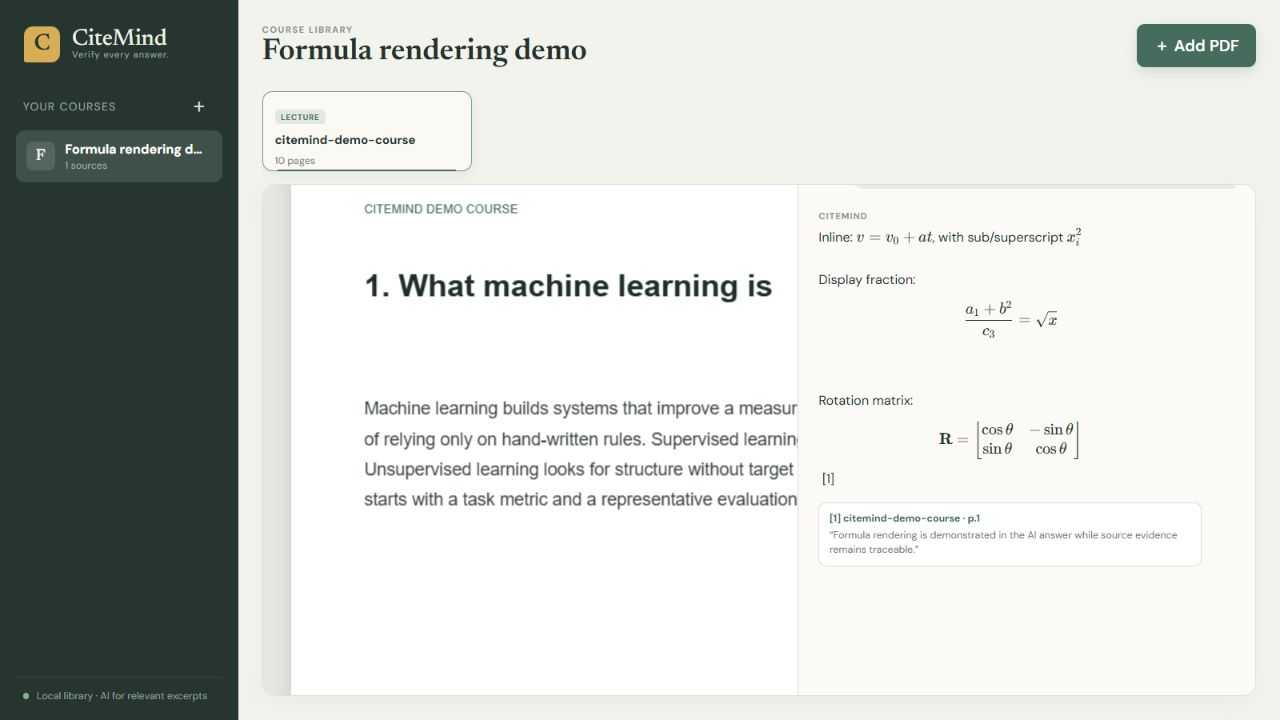
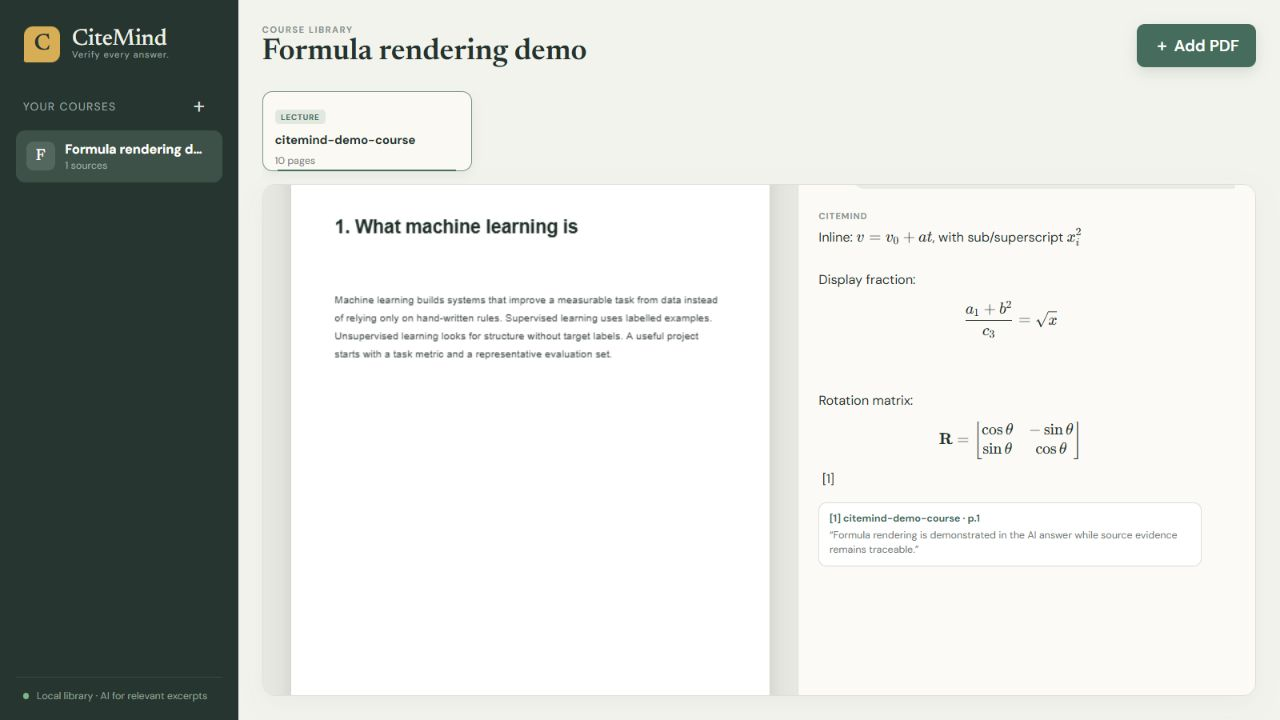
Fit PDF pages to viewer width

Changed region(s): [[0.25, 0.2444, 0.625, 0.9778], [0.25, 0.275, 0.4688, 0.3361]]

diff --git a/frontend/src/components/PdfViewer.tsx b/frontend/src/components/PdfViewer.tsx
@@ -14,10 +14,23 @@ type Props = {
 export function PdfViewer({ documentId, title, page, highlight, pageCount, onPageChange }: Props) {
   const canvasRef = useRef<HTMLCanvasElement>(null);
   const overlayRef = useRef<HTMLDivElement>(null);
+  const scrollRef = useRef<HTMLDivElement>(null);
+  const [availableWidth, setAvailableWidth] = useState(0);
   const [loading, setLoading] = useState(true);
   const [error, setError] = useState("");
 
   useEffect(() => {
+    const container = scrollRef.current;
+    if (!container) return;
+    const measure = () => setAvailableWidth(Math.max(container.clientWidth - 56, 1));
+    measure();
+    const observer = new ResizeObserver(measure);
+    observer.observe(container);
+    return () => observer.disconnect();
+  }, []);
+
+  useEffect(() => {
+    if (!availableWidth) return;
     let cancelled = false;
     setLoading(true);
     setError("");
@@ -25,7 +38,8 @@ export function PdfViewer({ documentId, title, page, highlight, pageCount, onPag
     const task = pdfjs.getDocument({ url: `/api/documents/${documentId}/file`, worker });
     task.promise.then(async (pdf) => {
       const pdfPage = await pdf.getPage(page);
-      const viewport = pdfPage.getViewport({ scale: 1.35 });
+      const natural = pdfPage.getViewport({ scale: 1 });
+      const viewport = pdfPage.getViewport({ scale: Math.min(1.35, availableWidth / natural.width) });
       const canvas = canvasRef.current;
       if (!canvas || cancelled) return;
       const context = canvas.getContext("2d");
@@ -69,7 +83,7 @@ export function PdfViewer({ documentId, title, page, highlight, pageCount, onPag
       cancelled = true;
       void task.destroy().finally(() => worker.destroy());
     };
-  }, [documentId, page, highlight]);
+  }, [documentId, page, highlight, availableWidth]);
 
   return (
     <section className="viewer-panel">
@@ -84,7 +98,7 @@ export function PdfViewer({ documentId, title, page, highlight, pageCount, onPag
           <button aria-label="Next page" disabled={page >= pageCount} onClick={() => onPageChange(page + 1)}>→</button>
         </nav>
       </header>
-      <div className="pdf-scroll">
+      <div className="pdf-scroll" ref={scrollRef}>
         {loading && <div className="viewer-status">Rendering page…</div>}
         {error && <div className="error-card">{error}</div>}
         <div className="pdf-page" hidden={!!error}>

diff --git a/backend/app/main.py b/backend/app/main.py
@@ -26,7 +26,7 @@ async def lifespan(_: FastAPI):
     yield
 
 
-app = FastAPI(title="CiteMind API", version="0.1.5", lifespan=lifespan)
+app = FastAPI(title="CiteMind API", version="0.1.6", lifespan=lifespan)
 app.add_middleware(
     CORSMiddleware,
     allow_origins=["http://localhost:5173", "http://127.0.0.1:5173"],

diff --git a/docs/VALIDATION.md b/docs/VALIDATION.md
@@ -29,6 +29,7 @@ Validated on 2026-08-13 with Windows 11, Python 3.12, Node.js 24, and a Chromium
 | Private document-scoped revision | Three real questions; every citation clicked | 3/3 useful answers; 6/6 direct page citations |
 | Chinese short-fragment highlighting | Real private citation page | Improved from zero to five highlights |
 | AI formula rendering | Production browser with six formulas | Inline/display math, subscripts, superscripts, fraction, integral, root, and matrix rendered; no browser errors |
+| PDF fit-to-width | Production browser at 1280×720 | 479 px canvas inside 535 px reading pane; full page visible; no horizontal overflow |
 | Course-wide private comparison | Three broad cross-chapter questions | Partial: weak outline citations and one incorrect formula synthesis recorded locally |
 | Scope isolation | Browser switched course-wide chat to one document | Old messages cleared, new scope selected, no dialog or console error |
 | Browser runtime errors | Browser console after citation navigation | None |

diff --git a/README.md b/README.md
@@ -125,7 +125,7 @@ See the dated [validation report](docs/VALIDATION.md) for the complete test matr
 
 Before publishing v1.0, complete the privacy-safe [real-course acceptance checklist](docs/REAL_COURSE_ACCEPTANCE.md).
 
-The current engineering candidate is documented in the [v0.1.5 release notes](docs/RELEASE_NOTES_v0.1.5.md). It has completed three private tutorial sessions and exposed a course-wide comparison weakness; it is not represented as v1.0 until that path and the required lecture/notes/paper source mix pass.
+The current engineering candidate is documented in the [v0.1.6 release notes](docs/RELEASE_NOTES_v0.1.6.md). It has completed three private tutorial sessions and exposed a course-wide comparison weakness; it is not represented as v1.0 until that path and the required lecture/notes/paper source mix pass.
 
 ## Repository map
 

diff --git a/docs/RELEASE_NOTES_v0.1.6.md b/docs/RELEASE_NOTES_v0.1.6.md
@@ -1,0 +1,7 @@
+# CiteMind v0.1.6 — fit PDF pages to the viewer
+
+PDF pages now scale to the available reading-pane width instead of using a fixed 1.35× scale. The viewer observes width changes and rerenders the page and citation highlights at the same responsive scale.
+
+At a 1280×720 viewport, the test PDF rendered as a 479 px canvas inside a 535 px reading pane. Both page edges were visible and the pane had no horizontal overflow.
+
+The focused backend suite passes 23 checks and the production frontend builds successfully.

diff --git a/CHANGELOG.md b/CHANGELOG.md
@@ -1,5 +1,18 @@
 # Changelog
 
+## 0.1.6 - 2026-08-13
+
+### Fixed
+
+- Fit PDF pages to the reading pane instead of rendering at a fixed scale.
+- Recalculate the PDF scale when the split view or window width changes.
+- Keep citation highlights aligned with the resized PDF page.
+
+### Validated
+
+- At 1280×720, the 479 px PDF canvas fits inside the 535 px reading pane with no horizontal overflow.
+- 23 focused backend checks and a production frontend build.
+
 ## 0.1.5 - 2026-08-13
 
 ### Added
